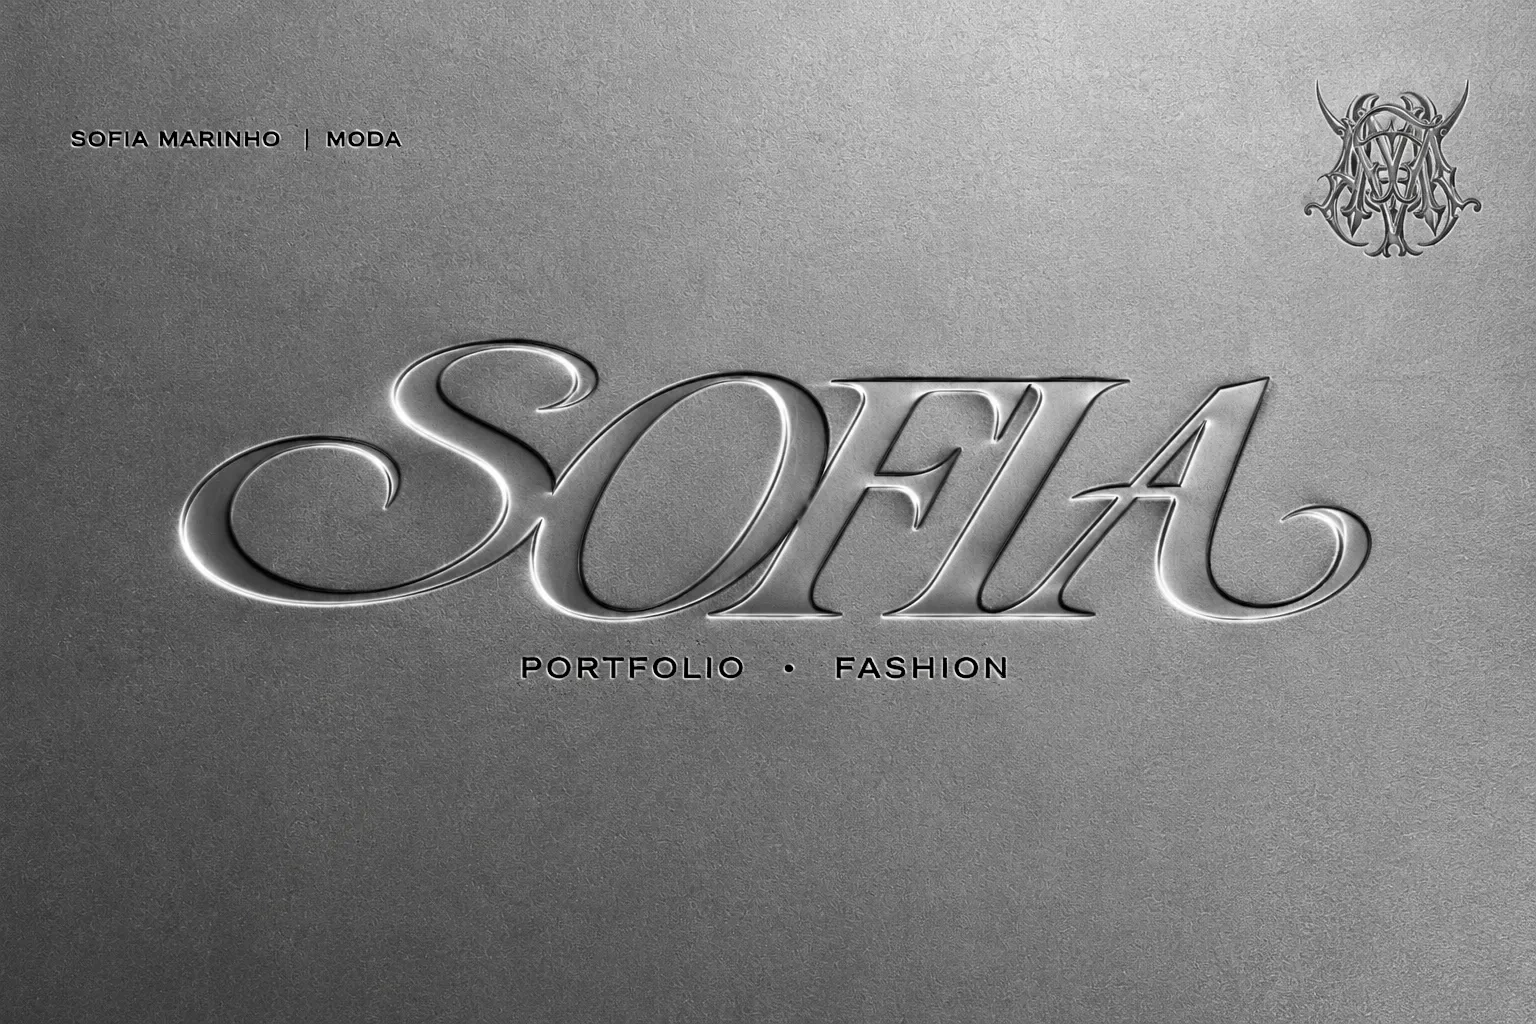
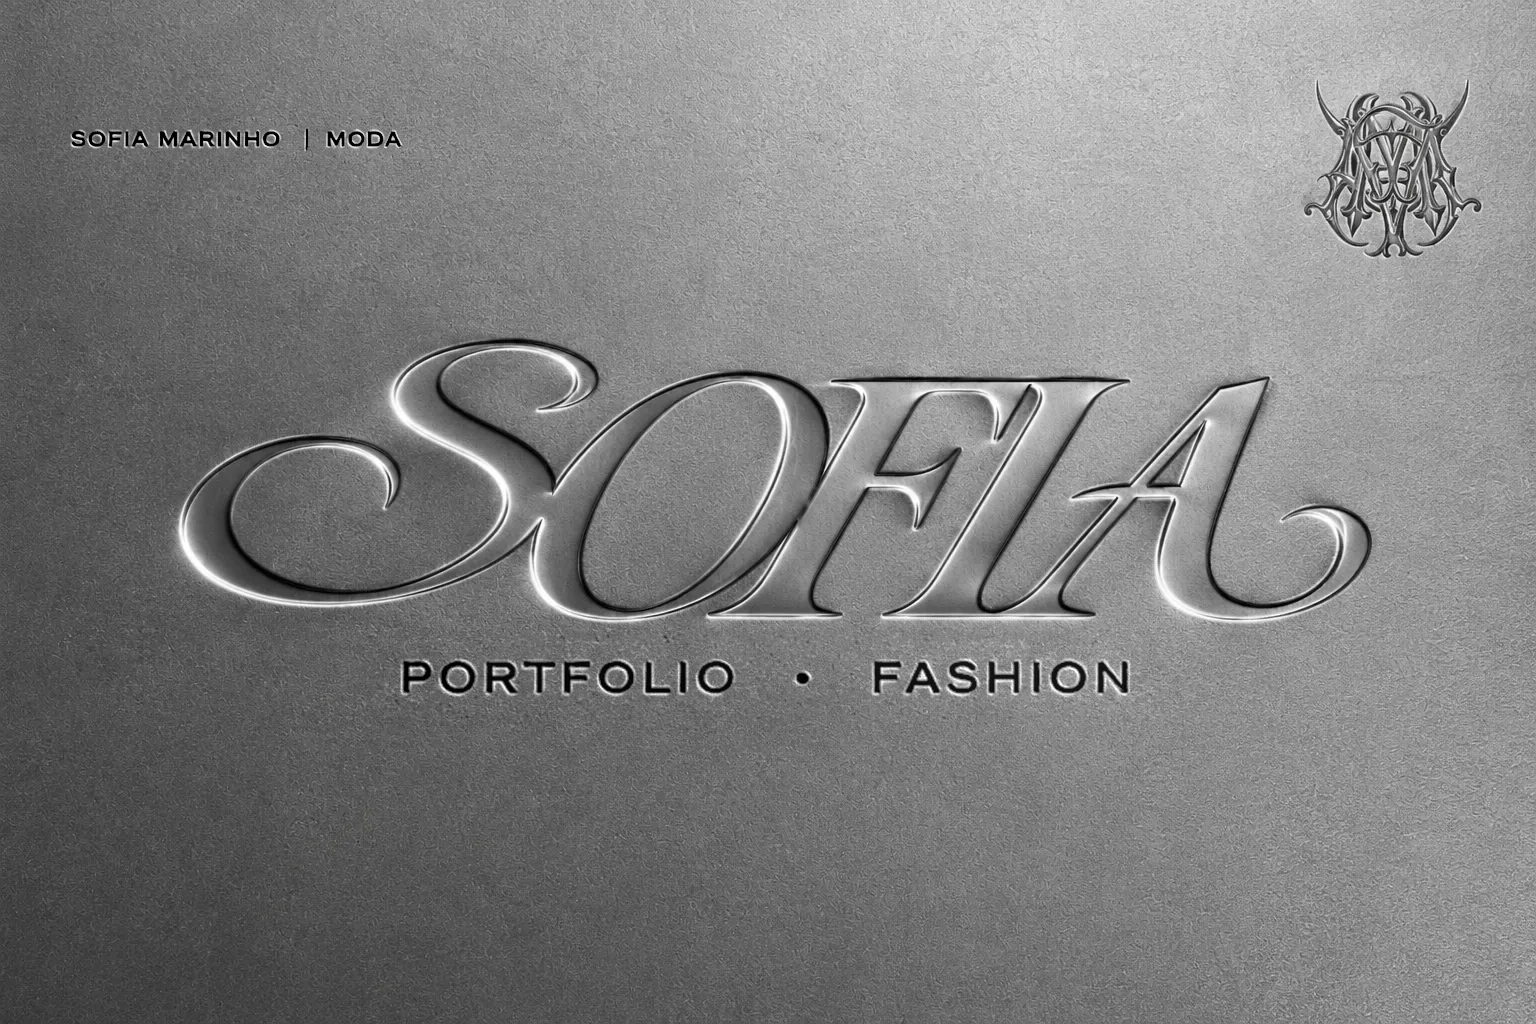
Portfólio: revisão geral (subtítulo maior na capa, colagem colorida, Coleções/Editorial, links nas habilidades, capas novas, créditos simplificados, costura reorganizada)
Claude-Session: https://claude.ai/code/session_01TwcUAkcdnNUaJGVqTisuvo

Changed region(s): [[0.25, 0.625, 0.75, 0.6875]]

diff --git a/portfolio/data.js b/portfolio/data.js
@@ -42,17 +42,17 @@ var PC = function (n) { return "media/pecas/" + n + ".webp"; };
 var tecs = function (n) { var k = (n < 10 ? "0" : "") + n, o = [LF("tec-" + k + "-1")]; if (n !== 6) o.push(LF("tec-" + k + "-2")); return o; };
 
 window.CATEGORIES = [
-  { id: "colecoes", name: "Coleções autorais", projects: ["in-concreto", "linhas-de-fuga", "merlot"] },
-  { id: "fotografia", name: "Fotografia", projects: ["alice", "impressao"] },
+  { id: "colecoes", name: "Coleções", projects: ["in-concreto", "linhas-de-fuga", "merlot"] },
+  { id: "editorial", name: "Editorial", projects: ["alice", "impressao"] },
   { id: "sketchbook", name: "Sketchbook", projects: ["sketchbook"] },
   { id: "costura", name: "Modelagem e costura", projects: ["modelagem-costura"] }
 ];
 
 /* colagem da seção Projetos (cada camada troca de foto em stop motion) */
 window.COLLAGE = [
-  [F("desfile-02"), F("desfile-04"), F("desfile-01"), F("desfile-03")],
-  [F("foto-03"), F("foto-01"), F("foto-04"), F("foto-02")],
-  [F("piloto-01"), F("piloto-02"), F("piloto-03"), F("piloto-04")]
+  [F("desfile-02"), AL(6), F("desfile-04"), IM(5), F("desfile-01")],
+  [AL(1), MY("palco"), IM(2), AL(11), IM(8)],
+  [PC("piet-look"), F("foto-03"), CO(17), AL(9), F("foto-01")]
 ];
 
 window.PROJECTS = {
@@ -65,12 +65,12 @@ window.PROJECTS = {
       [F("foto-04"), F("final-04"), F("desfile-04")]
     ],
     desc: "Quem decide o que é belo? Esta coleção procura a beleza onde ninguém foi ensinado a procurar: na imperfeição, na rachadura, no gesto que não se encaixa. O corpo se envolve e desaparece dentro do tecido; a estrutura, como o concreto de Brasília, se mostra sem vergonha da própria construção. E a orquídea, a flor da minha mãe, é o vermelho que insiste em interromper o cinza.",
-    skills: ["Conceito e pesquisa", "Croqui e ilustração", "Desenho técnico", "Pilotos com modelista"],
+    skills: [{ t: "Conceito e pesquisa", to: "Manifesto" }, { t: "Croqui e ilustração", to: "A coleção completa" }, { t: "Desenho técnico", to: "Fichas técnicas" }, { t: "Piloto × peça final", to: "Piloto × peça final" }],
     // link para o site completo da coleção (deixe "" para esconder)
     site: "",
     rows: [
       { cols: [[F("desfile-02")], [F("foto-02")]] },
-      { display: {
+      { hidden: true, display: {
           figures: ["01-frente", "01-costas", "02-frente", "02-costas", "03-frente", "03-costas", "04-frente", "04-costas"].map(function (n) { return IC + "recorte/" + n + ".webp"; }),
           hero: IC + "recorte/01-frente.webp",
           name: "IN-CONCRETO", tagline: "Antes de ser belo era estranho. Ninguém nasceu belo: alguém decidiu que era.",
@@ -97,11 +97,11 @@ window.PROJECTS = {
       { title: "Fichas técnicas", text: ["Desenho técnico de frente e costas de cada peça. Nos looks com mais de uma peça, o quadro alterna entre elas."] },
       { cols: COL10.slice(0, 5).map(function (l) { return l.tecs; }), contain: true, ratio: "16/10", caps: COL10.slice(0, 5).map(function (l) { return l.pecas; }) },
       { cols: COL10.slice(5).map(function (l) { return l.tecs; }), contain: true, ratio: "16/10", caps: COL10.slice(5).map(function (l) { return l.pecas; }) },
-      { cols: [[C("morman-orquidea")]], ratio: "1521/1076" },
-      { title: "Piloto × peça final", text: ["Cada look passou por pilotos, desenvolvidos com modelista, antes do tecido final, para testar volume, proporção e as soluções de modelagem."] },
+      { title: "Piloto × peça final", text: ["Processo de desenvolvimento das peças dos looks desfilados."] },
       { cols: [[F("piloto-01"), F("final-01")], [F("piloto-02"), F("final-02")]], caps: ["look 01", "look 02"] },
       { cols: [[F("piloto-03"), F("final-03")], [F("piloto-04"), F("final-04")]], caps: ["look 03", "look 04"] },
-      { cols: [[F("desfile-01")], [F("desfile-03")], [F("desfile-04")]] }
+      { title: "Desfile" },
+      { cols: [[F("desfile-01")], [F("desfile-02")], [F("desfile-03")], [F("desfile-04")]] }
     ]
   },
 
@@ -109,13 +109,12 @@ window.PROJECTS = {
   /* ---------- Linhas de Fuga (coleção em grupo, FAAP — família 2) ---------- */
   "linhas-de-fuga": {
     title: "Linhas de Fuga", year: "junho 2026", ctx: "FAAP · coleção em grupo · família 2",
-    band: [[LF("look-01"), LF("look-05"), LF("look-09")], [LF("look-02"), LF("look-06"), LF("look-10")], [LF("look-03"), LF("look-07"), LF("look-11")], [LF("look-04"), LF("look-08"), LF("look-12")]], bandContain: true,
+    band: [[LF("capa")]],
     desc: "Nascendo da aviação como linguagem de deslocamento, invenção e potência, a coleção percorre a história da aeronáutica, do 14-bis de Santos-Dumont ao imaginário técnico e militar do século XX. Fuselagens, cabos, uniformes, mapas de rota e superfícies metálicas viram recortes precisos, volumes aerodinâmicos e silhuetas em movimento. A narrativa é atravessada pelas mulheres que pilotaram, calcularam, montaram e costuraram a construção do voo, de Amelia Earhart e Bessie Coleman às trabalhadoras das fábricas da Segunda Guerra. Linhas de Fuga transforma o voo em metáfora de liberdade, resistência e transformação.",
-    credits: "Coleção em grupo com João Sasahara, Lívia Daris, Larissa Cardoso e Sofia Marinho. O conceito e as tendências foram pensados em grupo; os 12 looks da família 2 e os desenhos são a minha parte.",
+    credits: "Coleção em grupo com João Sasahara, Lívia Daris, Larissa Cardoso e Sofia Marinho. A família 2, com 12 looks e seus desenhos, é a minha parte da coleção.",
     skills: ["Família de 12 looks", "Croqui", "Desenho técnico (planificados)"],
     rows: [
-      { cols: [[LF("capa")]], ratio: "16/9" },
-      { title: "Conceito e referências", text: ["Pensado em grupo. Exploração, conquista, espetáculo e símbolo de modernidade: a pesquisa parte da aviação pioneira e chega ao público jovem adulto, urbano e criativo, que transita entre o clássico e o experimental."] },
+      { title: "Conceito e referências", text: ["Exploração, conquista, espetáculo e símbolo de modernidade: a pesquisa parte da aviação pioneira e chega ao público jovem adulto, urbano e criativo, que transita entre o clássico e o experimental."] },
       { cols: [[LF("mood1")]], ratio: "16/9" },
       { cols: [[LF("mood2")], [LF("mood3")]], ratio: "16/9" },
       { title: "Cores e tecidos" },
@@ -124,7 +123,7 @@ window.PROJECTS = {
       { cols: [[LF("tec2")], [LF("tec3")]], contain: true, ratio: "3/2" },
       { cols: [[LF("tec4")], [LF("tec5")]], contain: true, ratio: "3/2" },
       { cols: [[LF("estampa1")], [LF("estampa2")]], ratio: "1/1", caps: ["estampa", "estampa"] },
-      { title: "Pesquisa de tendências", text: ["Pensada em grupo. Pranchas de tendências que orientaram a coleção: alfaiataria desconstruída, gola estruturada, minimalismo, ponto de cor e pelo."] },
+      { title: "Pesquisa de tendências", text: ["Pranchas de tendências que orientaram a coleção: alfaiataria desconstruída, gola estruturada, minimalismo, ponto de cor e pelo."] },
       { cols: [[LF("tend1")], [LF("tend2")]], ratio: "16/9" },
       { cols: [[LF("tend3")], [LF("tend4")]], ratio: "16/9" },
       { cols: [[LF("tend5")]], ratio: "16/9" },
@@ -148,10 +147,10 @@ window.PROJECTS = {
     title: "Alice in Rock 'n Roll", year: "junho 2026", ctx: "editorial · styling e direção criativa · em grupo",
     band: [[AL(2), AL(6), AL(12)], [AL(3), AL(9), AL(16)], [AL(4), AL(10), AL(17)], [AL(7), AL(13), AL(19)]],
     desc: "Este editorial reimagina a narrativa clássica de Alice no País das Maravilhas dentro do universo glamuroso e caótico do rock 'n' roll dos anos 70: excessos, festas decadentes, música alta e luzes dramáticas, onde fantasia e realidade se confundem. A narrativa visual explora a cultura das groupies, os bastidores do rock e a energia dos palcos, construindo a sensação de uma noite sem fim.",
-    credits: "Em grupo com Elisa Spadoni (fotografia), Larissa Cardoso, Lívia Daris, Sofia Marinho e Sol Reguera. Styling e direção criativa feitos em conjunto.",
+    credits: "Em grupo com Elisa Spadoni, Larissa Cardoso, Lívia Daris, Sofia Marinho e Sol Reguera. Styling e direção criativa feitos em grupo.",
     skills: ["Styling", "Direção criativa", "Editorial"],
     rows: [
-      { cols: [[AL(0)], [AL(2)], [AL(3)], [AL(4)]] },
+      { cols: [[AL(2)], [AL(3)], [AL(4)]] },
       { title: "Alice", text: ["Inspirada na cultura das groupies, a personagem é inserida na atmosfera intensa de uma balada, cercada por excessos e extravagância. Ela é a garota que dança até o amanhecer, transforma o caos em encanto e permanece quando todos já foram embora."] },
       { cols: [[AL(1)]], ratio: "3/2" },
       { cols: [[AL(6)], [AL(7)]] },
@@ -173,7 +172,7 @@ window.PROJECTS = {
     title: "Da Impressão à Expressão", year: "abril 2026", ctx: "editorial · styling e direção criativa · em grupo",
     band: [[IM(1), IM(5), IM(11)], [IM(3), IM(6), IM(12)], [IM(4), IM(9), IM(16)], [IM(7), IM(10), IM(17)]],
     desc: "“O momento em que a luz se torna emoção.” Um editorial em dois tempos: parte da estética leve e luminosa do Impressionismo, que tenta capturar o instante antes que ele desapareça, e atravessa a ruptura até a expressão intensa do Expressionismo, onde a emoção deforma a imagem.",
-    credits: "Em grupo com Elisa Spadoni (fotografia), Larissa Cardoso, Lívia Daris, Sofia Marinho e Sol Reguera. Styling e direção criativa feitos em conjunto.",
+    credits: "Em grupo com Elisa Spadoni, Larissa Cardoso, Lívia Daris, Sofia Marinho e Sol Reguera. Styling e direção criativa feitos em grupo.",
     skills: ["Styling", "Direção criativa", "Editorial"],
     rows: [
       { cols: [[IM(0)]], ratio: "16/9" },
@@ -212,32 +211,33 @@ window.PROJECTS = {
 
   /* ---------- Modelagem e costura: peças feitas por mim ---------- */
   "modelagem-costura": {
-    title: "Modelagem e costura", year: "2022–2025", ctx: "peças que modelei e costurei",
-    band: [[PC("piet-look"), PC("piet-detalhe")], [PC("jaqueta-frente"), PC("jaqueta-lado")], [PC("conjunto-1"), PC("conjunto-2")], [CO(17), CO(16), CO(15)]],
-    desc: "Peças que modelei e costurei do começo ao fim. Comecei em 2022 num curso livre de corte, costura e modelagem, que concluí em 2024; desde então sigo desenvolvendo peças para desfiles e projetos da faculdade.",
-    skills: ["Modelagem plana", "Moulage", "Costura", "Acabamentos e aviamentos"],
+    title: "Modelagem e costura", year: "", ctx: "", noBand: true,
+    desc: "Comecei em 2022 um curso livre de corte, costura e modelagem, que concluí em 2024. Desde então, sigo desenvolvendo algumas peças.",
+    skills: [],
     rows: [
-      { title: "Conjunto risca de giz · desfile da Piet, 2025", text: ["Top com amarração lateral em correntes passadas por ilhoses e calça de cintura alta com correntes douradas e prateadas que caem em camadas."] },
+      { title: "Conjunto risca de giz · 2025", text: ["Top com amarração lateral em correntes passadas por ilhoses e calça de cintura alta com correntes douradas e prateadas que caem em camadas."] },
       { cols: [[PC("piet-look")], [PC("piet-detalhe")]], ratio: "3/4", mid: true, caps: ["", "detalhe da amarração em correntes"] },
-      { title: "Jaqueta · FAAP, novembro 2025", text: ["Sarja preta com recortes em vinho, gola alta com zíper, fechos de engate em metal e bolsos embutidos."] },
-      { cols: [[PC("jaqueta-frente")], [PC("jaqueta-lado")]], ratio: "4/3", mid: true },
-      { title: "Conjunto · FAAP, maio 2025", text: ["Jaqueta branca de gola alta com cordões de ajuste na cintura e nos punhos, sobre saia preta pregueada."] },
-      { cols: [[PC("conjunto-1")], [PC("conjunto-2")]], ratio: "3/4", mid: true },
-      { title: "Vestido de formatura · curso livre", text: ["Minha primeira peça em moulage: a modelagem construída direto no corpo, de forma mais intuitiva e tridimensional."] },
+      // fotos novas em fundo branco a caminho: tirar hidden quando chegarem
+      { hidden: true, title: "Jaqueta · novembro 2025", text: ["Sarja preta com recortes em vinho, gola alta com zíper, fechos de engate em metal e bolsos embutidos."] },
+      { hidden: true, title: "Blusa e saia · maio 2025", text: ["Blusa branca de gola alta com cordões de ajuste na cintura e nos punhos.", "Saia preta pregueada."] },
+      { title: "Vestido de formatura · 2024", text: ["Vestido executado para a minha formatura do ensino médio. Minha primeira peça em moulage: a modelagem foi construída direto no corpo, de forma mais tridimensional."] },
       { cols: [[CO(17)], [CO(16)], [CO(15)]], ratio: "2/3", mid: true },
-      { title: "Peças do curso · 2022–2024" },
-      { cols: [[CO(4), CO(5), CO(6)], [CO(9), CO(10)], [CO(12), CO(11)], [CO(14), CO(13)]], ratio: "2/3", caps: ["vestido com fenda", "vestido de amarrar", "vestido com correntes", "vestido de veludo"] }
+      { title: "Peças do curso de costura" },
+      { sub: "Vestido longo com fenda", cols: [[CO(4)], [CO(5)], [CO(6)]], ratio: "2/3", mid: true },
+      { sub: "Vestido de cetim de amarrar no pescoço", cols: [[CO(9)], [CO(10)]], ratio: "2/3", mid: true },
+      { sub: "Vestido com amarração em correntes", cols: [[CO(12)], [CO(11)]], ratio: "2/3", mid: true },
+      { sub: "Vestido de veludo", cols: [[CO(14)], [CO(13)]], ratio: "2/3", mid: true }
     ]
   },
 
+
   "merlot": {
     title: "Merlot", year: "2024", ctx: "Y-Hack · Y-Human · finalista · coleção em grupo",
-    band: [[ME(7), ME(13)], [ME(10), ME(16)], [ME(13), ME(20)], [ME(16), ME(7)]], bandPos: "72% 50%",
+    band: [[MY("palco")]],
     desc: "A coleção tem como tema as plantações de uvas, com foco no Rio Grande do Sul, e lança luz sobre a beleza e a complexidade do cultivo ao mesmo tempo em que denuncia o trabalho análogo à escravidão nos vinhedos. Workwear agrícola, a folha, o cacho, os ramos e o pássaro merlo-preto, que deu nome à uva, viram recortes, bolsos, texturas e estampas em cinco looks e acessórios.",
-    credits: "Coleção em grupo com João Cardoso, Larissa Cardoso, Lisa Guerra, Lívia Daris e Sofia Marinho. Finalista do Y-Hack (Y-Human). A parte criativa foi toda desenvolvida em grupo: participei da criação do conceito e das peças e fiz diretamente as ilustrações de algumas peças, do sapato e da bolsa.",
-    skills: ["Conceito (em grupo)", "Criação das peças (em grupo)", "Ilustração de peças e acessórios"],
+    credits: "Coleção em grupo com João Cardoso, Larissa Cardoso, Lisa Guerra, Lívia Daris e Sofia Marinho. Finalista do Y-Hack (Y-Human). Participei da criação do conceito e das peças e fiz as ilustrações de algumas peças, do sapato e da bolsa.",
+    skills: ["Conceito", "Criação das peças", "Ilustração de peças e acessórios"],
     rows: [
-      { cols: [[ME(1)]], ratio: "16/9" },
       { title: "Contexto", text: ["Apesar dos avanços tecnológicos e das leis trabalhistas, ainda há relatos frequentes de condições abusivas nas plantações de uvas: jornadas extenuantes, salários inadequados e trabalhadores migrantes aliciados com falsas promessas. A coleção vira o olhar para essa região e para quem sustenta a colheita."] },
       { cols: [[ME(5)], [ME(6)]], ratio: "16/9", caps: ["referências", "paleta de cores"] },
       { title: "Look 1", text: ["Bomber com recortes assimétricos que lembram rasgos, como o esmagamento das uvas e a perda do fruto; calça inspirada no pecíolo, o “cabinho” que nutre a uva."] },

diff --git a/portfolio/app.js b/portfolio/app.js
@@ -154,11 +154,14 @@
     return h;
   }
 
+  function slug(t) { return String(t).toLowerCase().normalize("NFD").replace(/[\u0300-\u036f]/g, "").replace(/[^a-z0-9]+/g, "-").replace(/^-|-$/g, ""); }
   function renderRow(rw) {
     var h = "";
+    if (rw.hidden) return "";
     if (rw.display) return renderDisplay(rw.display);
+    if (rw.sub) h += '<h4 class="subhead wrap">' + esc(rw.sub) + '</h4>';
     if (rw.title || rw.text || rw.panels || rw.looks) {
-      h += '<section class="block wrap">' + (rw.title ? '<h3>' + esc(rw.title) + '</h3>' : "");
+      h += '<section class="block wrap"' + (rw.title ? ' id="s-' + slug(rw.title) + '"' : "") + '>' + (rw.title ? '<h3>' + esc(rw.title) + '</h3>' : "");
       (rw.text || []).forEach(function (t) { h += '<p>' + esc(t) + '</p>'; });
       if (rw.quote) h += '<blockquote class="quote"><p>“' + esc(rw.quote[0]) + '”</p><cite>' + esc(rw.quote[1]) + '</cite></blockquote>';
       if (rw.panels) h += '<div class="panels">' + rw.panels.map(function (pn) {
@@ -186,7 +189,7 @@
     h += '<header class="head phead wrap"><div class="head__main"><h1 class="wide">' + esc(p.title) + '</h1>' +
       '<p class="meta">' + esc([p.year, p.ctx].filter(Boolean).join(" · ")) + '</p>' +
       '<p>' + esc(p.desc) + '</p>' + (p.credits ? '<p class="credits">' + esc(p.credits) + '</p>' : "") + (p.site ? '<a class="btn" href="' + p.site + '" target="_blank" rel="noopener">ver o site da coleção ↗</a>' : "") + '</div>' +
-      '<ul class="skills">' + (p.skills || []).map(function (s) { return '<li>' + esc(s) + '</li>'; }).join("") + '</ul></header>';
+      '<ul class="skills">' + (p.skills || []).map(function (s) { return typeof s === "string" ? '<li>' + esc(s) + '</li>' : '<li><a class="jump" href="#" data-to="s-' + slug(s.to) + '">' + esc(s.t) + ' <span aria-hidden="true">↓</span></a></li>'; }).join("") + '</ul></header>';
     if (p.pending) h += '<p class="todo">Imagens a enviar: mande as fotos deste projeto que esta página ganha faixa em stop motion e galeria como a do IN-CONCRETO.</p>';
     h += (p.rows || []).map(renderRow).join("");
     var others = c ? c.projects.filter(function (x) { return x !== pid; }) : [];
@@ -232,6 +235,8 @@
     lbImg.src = g.srcs[sub]; lbImg.alt = g.cap; lbCap.textContent = (g.cap ? g.cap + "  ·  " : "") + (cur + 1) + "/" + gallery.length;
   }
   body.addEventListener("click", function (e) {
+    var j = e.target.closest(".jump");
+    if (j) { e.preventDefault(); var t = document.getElementById(j.dataset.to); if (t) viewer.scrollTo({ top: t.offsetTop - 40, behavior: calm ? "auto" : "smooth" }); return; }
     var b = e.target.closest(".zoom, .zoom-in"); if (!b) return;
     var seq = b.parentNode.querySelector(".seq"), on = seq ? Math.max(0, Array.prototype.indexOf.call(seq.children, seq.querySelector(".on"))) : 0;
     show(+b.dataset.k, on); lb.hidden = false; $(".lb__x").focus();

diff --git a/portfolio/style.css b/portfolio/style.css
@@ -90,7 +90,6 @@ button { font: inherit; color: inherit; }
 .collage .seq:nth-child(1) { left: 6%; top: 6%; width: 52%; aspect-ratio: 2/3; }
 .collage .seq:nth-child(2) { left: 36%; top: 22%; width: 54%; aspect-ratio: 4/3.4; }
 .collage .seq:nth-child(3) { left: 18%; top: 58%; width: 46%; aspect-ratio: 4/3; }
-.collage img { filter: grayscale(1) contrast(1.08); }
 .sq { position: absolute; width: 9px; height: 9px; background: #fff; }
 
 /* ---------- stop motion (genérico) ---------- */
@@ -246,3 +245,10 @@ button { font: inherit; color: inherit; }
 
 .row--mid { max-width: 1100px; margin: 0 auto 12px; gap: 12px; }
 @media (max-width: 700px) { .row--mid { gap: 6px; } }
+
+.skills .jump { text-decoration: none; border-bottom: 1px solid transparent; }
+.skills .jump span { font-size: .8em; opacity: .5; }
+.skills .jump:hover { border-bottom-color: currentColor; }
+.subhead { margin: 2.2rem 0 .9rem; font: 400 clamp(.95rem, 1.4vw, 1.1rem) var(--f-ui); max-width: 1100px; margin-left: auto; margin-right: auto; padding-left: 0; padding-right: 0; }
+@media (max-width: 1180px) { .subhead { padding-left: max(var(--pad), var(--gl)); padding-right: max(var(--pad), var(--gr)); } }
+.band[style*="--n:1"] .seq img { object-position: 50% 45%; }

diff --git a/portfolio/index.html b/portfolio/index.html
@@ -38,8 +38,8 @@
     <canvas class="plate__metal" aria-hidden="true"></canvas>
     <h1 class="sr-only">Sofia Marinho — portfólio de moda</h1>
     <picture>
-      <source media="(max-aspect-ratio: 5/4)" srcset="media/capa-celular.webp?v=2">
-      <img class="plate__full" src="media/capa.webp" alt="" decoding="async" fetchpriority="high">
+      <source media="(max-aspect-ratio: 5/4)" srcset="media/capa-celular.webp?v=3">
+      <img class="plate__full" src="media/capa.webp?v=3" alt="" decoding="async" fetchpriority="high">
     </picture>
     <a class="plate__down emb" href="#projetos">role ↓</a>
   </section>
